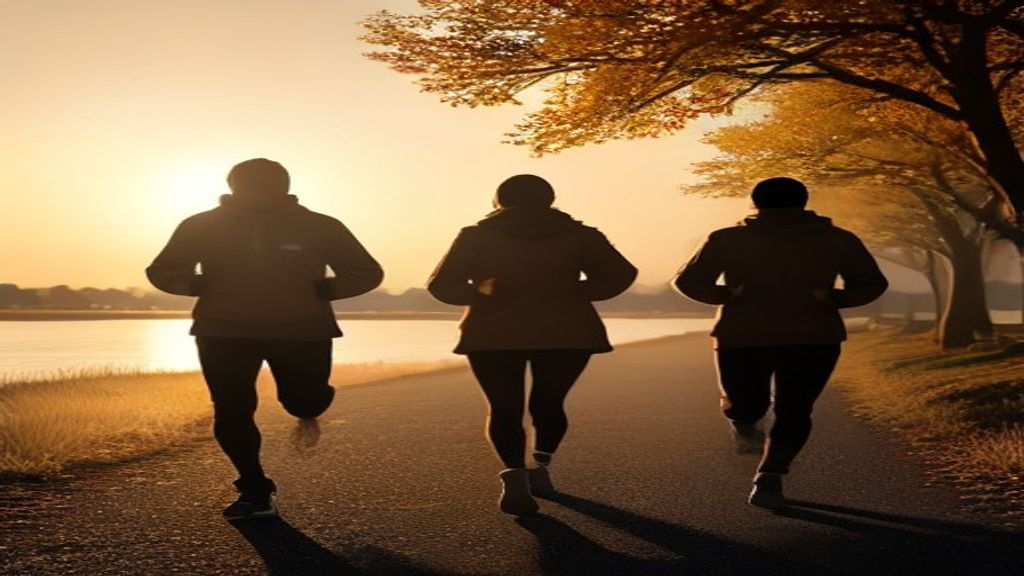
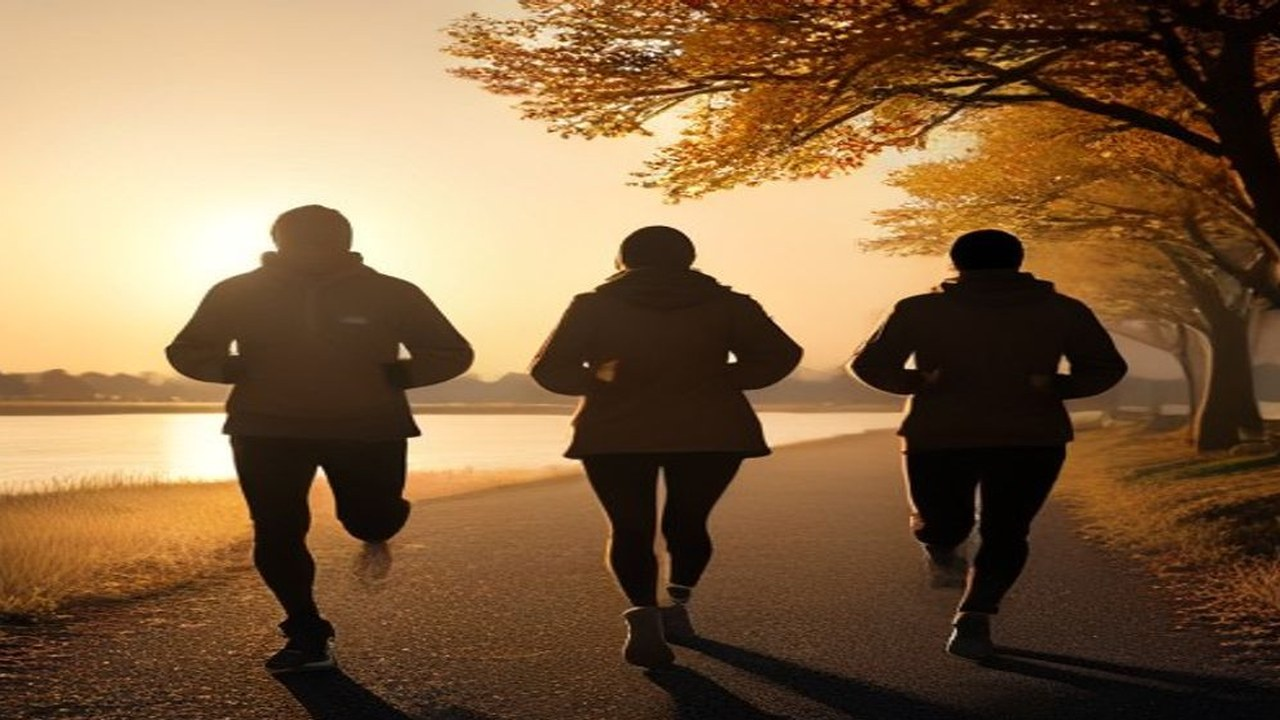
blog: 第1回にアイキャッチ画像を追加、第2回の黒帯を除去
第1回（キャリアコラム）に Pollinations で生成した夜明けのオフィス窓辺の
写真を追加。生成画像に焼き込まれるレターボックスの黒帯は、上下左右の
低輝度な行／列を検出して切り落としたうえで 1280x720 に整えている。
第2回の画像にも下端 20px の帯があったので同じ処理をかけ直した。

Changed region(s): [[0.0, 0.0, 1.0, 1.0], [0.1562, 0.375, 0.1875, 0.4375]]

diff --git a/blog/posts/2026-08-26-why-i-could-change.html b/blog/posts/2026-08-26-why-i-could-change.html
@@ -12,12 +12,12 @@
   <meta property="og:title" content="【キャリアコラム】「今のままでいい」と思っていた自分が、なぜ動けたのか">
   <meta property="og:description" content="「特別よくなりたいとは思っていない」。30代のエンジニアの方の言葉は、10年前の私自身の言葉でもありました。不満がないからこそ動けなかった時期に、何が起きたのかを書きます。">
   <meta property="og:url" content="https://ryupro202211-ops.github.io/ryupro/blog/posts/2026-08-26-why-i-could-change.html">
-  <meta property="og:image" content="https://ryupro202211-ops.github.io/ryupro/assets/images/ogp.jpg">
+  <meta property="og:image" content="https://ryupro202211-ops.github.io/ryupro/blog/posts/images/2026-08-26-why-i-could-change.jpg">
   <meta property="article:published_time" content="2026-08-26">
   <meta name="twitter:card" content="summary_large_image">
   <meta name="twitter:title" content="【キャリアコラム】「今のままでいい」と思っていた自分が、なぜ動けたのか">
   <meta name="twitter:description" content="「特別よくなりたいとは思っていない」。30代のエンジニアの方の言葉は、10年前の私自身の言葉でもありました。不満がないからこそ動けなかった時期に、何が起きたのかを書きます。">
-  <meta name="twitter:image" content="https://ryupro202211-ops.github.io/ryupro/assets/images/ogp.jpg">
+  <meta name="twitter:image" content="https://ryupro202211-ops.github.io/ryupro/blog/posts/images/2026-08-26-why-i-could-change.jpg">
   <link rel="preconnect" href="https://fonts.googleapis.com">
   <link rel="preconnect" href="https://fonts.gstatic.com" crossorigin>
   <link href="https://fonts.googleapis.com/css2?family=Noto+Sans+JP:wght@300;400;500;700&family=Shippori+Mincho:wght@400;500;600&family=Outfit:wght@300;400;500&display=swap" rel="stylesheet">
@@ -33,6 +33,9 @@
 <main class="article-wrapper">
   <div class="article-date">2026.08.26</div>
   <h1 class="article-title">【キャリアコラム】「今のままでいい」と思っていた自分が、なぜ動けたのか</h1>
+  <div class="article-hero-img">
+    <img src="images/2026-08-26-why-i-could-change.jpg" alt="【キャリアコラム】「今のままでいい」と思っていた自分が、なぜ動けたのか" loading="lazy" decoding="async">
+  </div>
   <div class="article-body"><p>先日、30代のエンジニアの方とお話しする機会がありました。技術力もあって、職場での評価も悪くない。それでも将来の話になったとき、その方はこう言ったんです。</p>
 
 <blockquote>特別よくなりたいとは思っていなくて。今のままの人生が続けばいい、という感じです。</blockquote>
